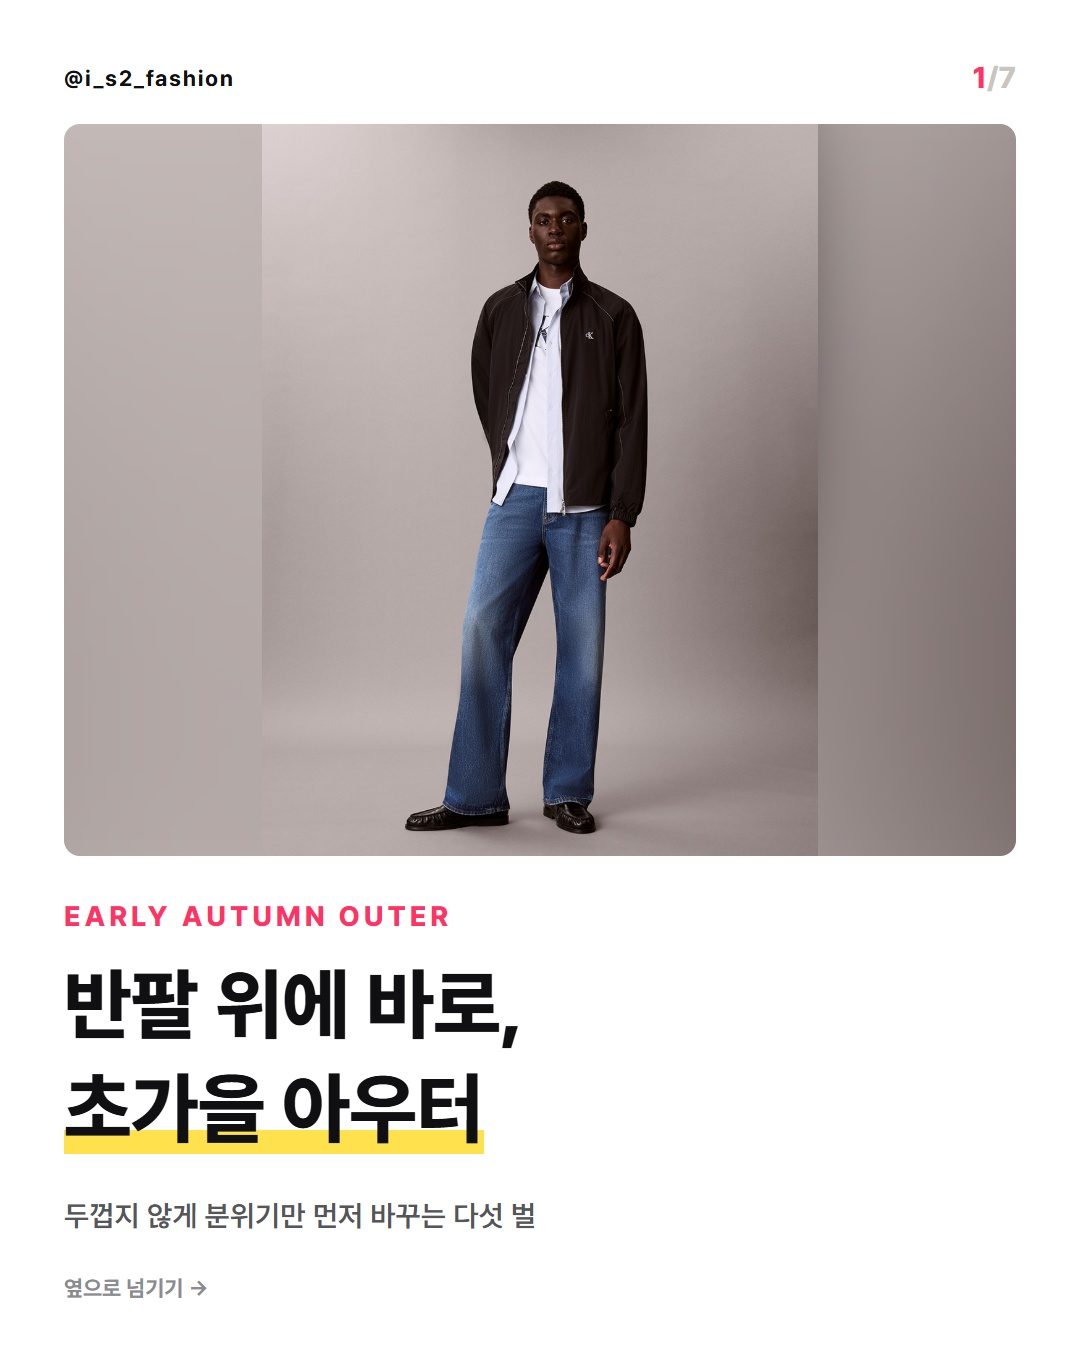
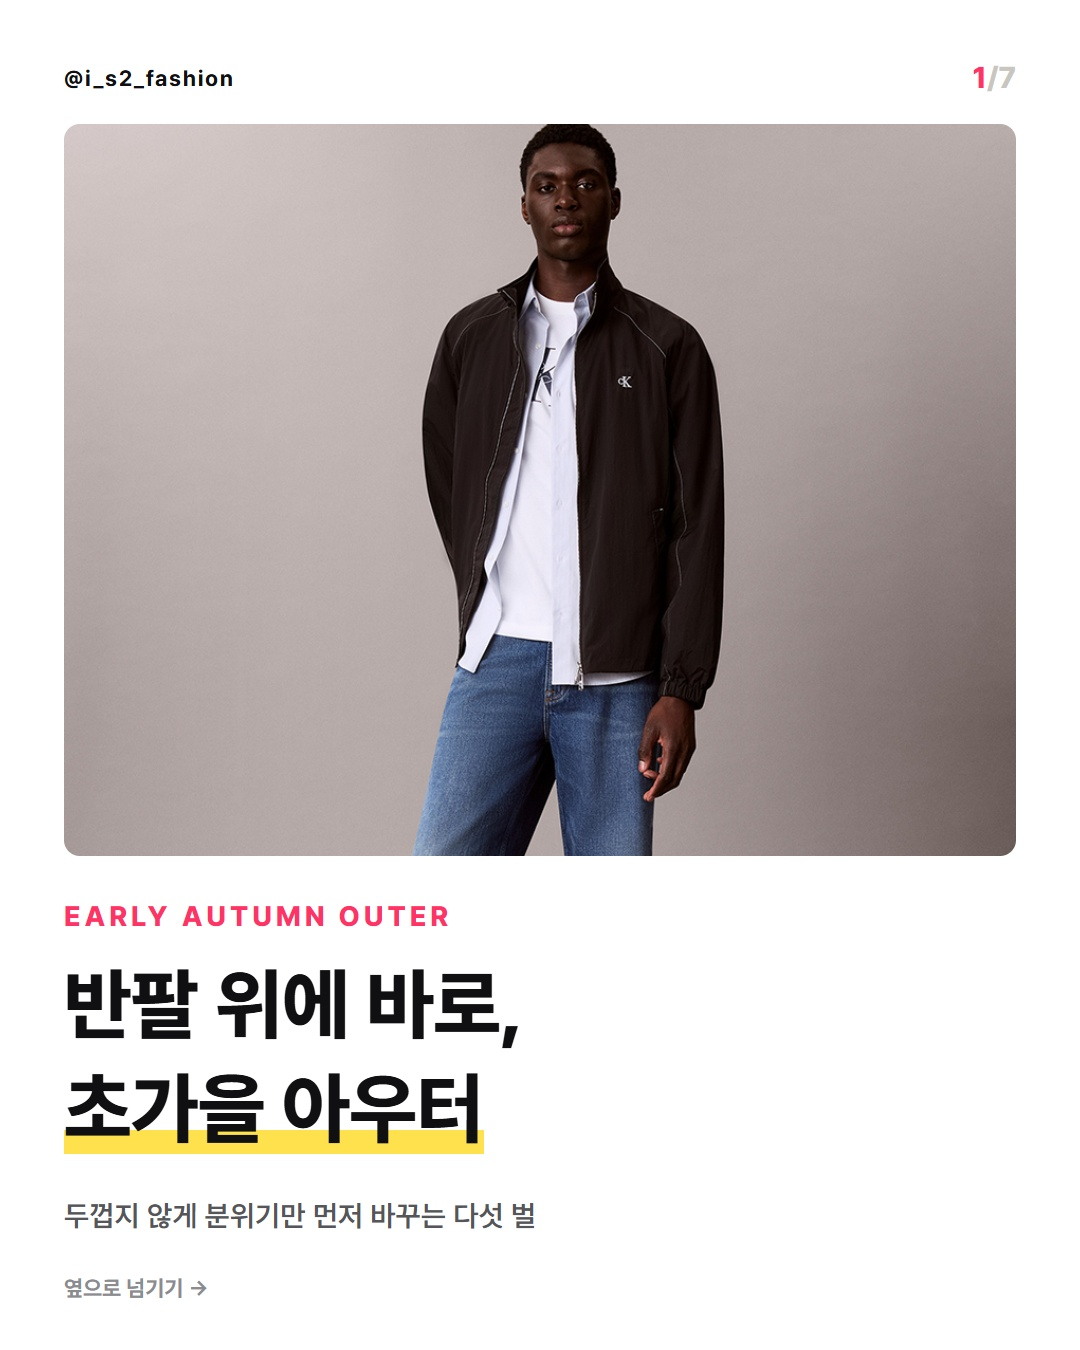
chore: auto-commit by Claude Code (2026-09-04 01:08:46)

Changed region(s): [[0.3667, 0.0933, 0.7944, 0.6533], [0.8556, 0.5911, 0.9472, 0.6533]]

diff --git a/card-drafts/early-autumn-outer/index.html b/card-drafts/early-autumn-outer/index.html
@@ -5,21 +5,22 @@
 /* 원본 비율을 유지하므로 남는 영역을 채우는 인위적인 사진 프레임은 사용하지 않는다. */
 .photo{background:transparent}
 .meta s{color:#b6b3ac;font-weight:500;margin-right:4px}
-.cover .photo{width:476px;height:366px;border-radius:8px;background:#e9e7e4}
-.cover .photo .bg{position:absolute;inset:-30px;background-size:cover;background-position:center;filter:blur(22px) saturate(.9);transform:scale(1.15);z-index:0}
-.cover .photo img{position:relative;z-index:1;width:100%;height:100%;object-fit:contain}
+.card.item .photo,.card.cover .photo{width:476px;border-radius:8px;background:#f0efec}
+.card.cover .photo{height:366px}
+.card.item .photo{height:310px}
+.card.item .photo img,.card.cover .photo img{width:100%;height:100%;object-fit:cover;object-position:var(--pos,50% 20%)}
 .cover .caption{margin-top:14px}
 </style></head><body><div class="head"><h1>초가을 아우터 카드뉴스 · 인스타 후킹형 · @i_s2_fashion</h1><p>표지 → 러플 카디건 · 네이비 재킷 · 하프 트렌치 · 윈드브레이커 · 트랙탑 → CTA (7장)<br>C안 고정 디자인 · 상품 정보: 무신사 2026-09-04 재확인</p></div><div class="toolbar"><button onclick="exportAll()">⬇ 전체 PNG 내보내기 (7장)</button></div><div class="board" id="board"></div>
 <script src="https://cdnjs.cloudflare.com/ajax/libs/html2canvas/1.4.1/html2canvas.min.js"></script><script>
 const cards=[
 {kind:'cover',img:'assets/cover-calvin-big.jpg',lab:'표지',kicker:'EARLY AUTUMN OUTER',title:'반팔 위에 바로,<br><em>초가을 아우터</em>',sub:'두껍지 않게 분위기만 먼저 바꾸는 다섯 벌'},
-{kind:'item',img:'assets/01-eightseconds-cardigan.jpg',lab:'에잇세컨즈',badge:'9%',prod:'에잇세컨즈 · <b>러플 긴소매 카디건</b>',title:'진주 단추는 빡세도<br><em>디자인이 이긴다</em>',meta:'무신사 <s>69,900원</s> 63,610원',proof:'후기 3개 · ⭐ 5.0',sp:'“디자인도 맘에 들고 느낌도 좋아요 단점이라면 단추가 진주라서 좀 빡셉니다. 그래도 그런 단점을 상쇄하는 디자인이에요.” —&nbsp;실제&nbsp;후기'},
-{kind:'item',img:'assets/02-polo.jpg',lab:'폴로 랄프 로렌',badge:'5%',prod:'폴로 랄프 로렌 · <b>빅 재킷 네이비</b>',title:'해링턴보다<br><em>빅 재킷</em>',meta:'무신사 <s>499,000원</s> 474,050원',proof:'후기 6개 · ⭐ 4.8',sp:'“비싸서 매번 쳐다만 보던 폴로 재킷 구매했습니다. 다른 폴로의 워크 재킷류가 많았지만 해링턴 재킷보다는 빅재킷이 제일 이뻐보여서 이걸로 장만했습니다.” —&nbsp;실제&nbsp;후기'},
-{kind:'item',img:'assets/03-mixxo.jpg',lab:'미쏘',badge:'24%',prod:'미쏘 · <b>하프 트렌치코트</b>',title:'소매를 접으면<br><em>디테일이 보여</em>',meta:'무신사 <s>129,000원</s> 98,040원',proof:'후기 15개 · ⭐ 5.0',sp:'“봄가을에 너무너무 잘 입을거 같아요! 소매 안감 디테일도 너무 귀엽구 .. 색도 맘에들어요🫰🏻🤍 사이즈 s인데도 겁나 커요,, 매장에서 입어보고 온라인주문 추천합니댜 ㅎㅎ” —&nbsp;실제&nbsp;후기'},
-{kind:'item',img:'assets/04-calvin.jpg',lab:'캘빈클라인 진',badge:'40%',prod:'캘빈클라인 진 · <b>콘트라스트 스티치 윈드브레이커</b>',title:'가볍게 걸치고<br><em>뒤는 확실하게</em>',meta:'무신사 <s>219,000원</s> 131,400원',proof:'후기 98개 · ⭐ 4.9',sp:'“뒤에 백로고가 너무 예뻐요. 간절기에 들고 다니고 걸치기 좋은 두께감입니다. 가벼워요” —&nbsp;실제&nbsp;후기'},
-{kind:'item',img:'assets/05-adidas.jpg',lab:'아디다스',badge:'17%',prod:'아디다스 · <b>클래식 트랙탑</b>',title:'색감 예쁜데<br><em>밑단 시보리 짱짱</em>',meta:'무신사 <s>109,000원</s> 90,470원',proof:'후기 9개 · ⭐ 5.0',sp:'“디자인이랑 색감 진짜 이뻐요! 그리고 밑단 시보리가 엄청 짱짱해서 골반에 딱 걸쳐요 이 부분 고려해서 사이즈 선택해야 할 것 같아요” —&nbsp;실제&nbsp;후기'},
+{kind:'item',img:'assets/01-eightseconds-cardigan-crop.jpg',pos:'50% 6%',lab:'에잇세컨즈',badge:'9%',prod:'에잇세컨즈 · <b>러플 긴소매 카디건</b>',title:'진주 단추는 빡세도<br><em>디자인이 이긴다</em>',meta:'무신사 <s>69,900원</s> 63,610원',proof:'후기 3개 · ⭐ 5.0',sp:'“디자인도 맘에 들고 느낌도 좋아요 단점이라면 단추가 진주라서 좀 빡셉니다. 그래도 그런 단점을 상쇄하는 디자인이에요.” —&nbsp;실제&nbsp;후기'},
+{kind:'item',img:'assets/02-polo-big.jpg',lab:'폴로 랄프 로렌',badge:'5%',prod:'폴로 랄프 로렌 · <b>빅 재킷 네이비</b>',title:'해링턴보다<br><em>빅 재킷</em>',meta:'무신사 <s>499,000원</s> 474,050원',proof:'후기 6개 · ⭐ 4.8',sp:'“비싸서 매번 쳐다만 보던 폴로 재킷 구매했습니다. 다른 폴로의 워크 재킷류가 많았지만 해링턴 재킷보다는 빅재킷이 제일 이뻐보여서 이걸로 장만했습니다.” —&nbsp;실제&nbsp;후기'},
+{kind:'item',img:'assets/03-mixxo-big.jpg',lab:'미쏘',badge:'24%',prod:'미쏘 · <b>하프 트렌치코트</b>',title:'소매를 접으면<br><em>디테일이 보여</em>',meta:'무신사 <s>129,000원</s> 98,040원',proof:'후기 15개 · ⭐ 5.0',sp:'“봄가을에 너무너무 잘 입을거 같아요! 소매 안감 디테일도 너무 귀엽구 .. 색도 맘에들어요🫰🏻🤍 사이즈 s인데도 겁나 커요,, 매장에서 입어보고 온라인주문 추천합니댜 ㅎㅎ” —&nbsp;실제&nbsp;후기'},
+{kind:'item',img:'assets/04-calvin-big.jpg',pos:'50% 42%',lab:'캘빈클라인 진',badge:'40%',prod:'캘빈클라인 진 · <b>콘트라스트 스티치 윈드브레이커</b>',title:'가볍게 걸치고<br><em>뒤는 확실하게</em>',meta:'무신사 <s>219,000원</s> 131,400원',proof:'후기 98개 · ⭐ 4.9',sp:'“뒤에 백로고가 너무 예뻐요. 간절기에 들고 다니고 걸치기 좋은 두께감입니다. 가벼워요” —&nbsp;실제&nbsp;후기'},
+{kind:'item',img:'assets/05-adidas-big.jpg',lab:'아디다스',badge:'17%',prod:'아디다스 · <b>클래식 트랙탑</b>',title:'색감 예쁜데<br><em>밑단 시보리 짱짱</em>',meta:'무신사 <s>109,000원</s> 90,470원',proof:'후기 9개 · ⭐ 5.0',sp:'“디자인이랑 색감 진짜 이뻐요! 그리고 밑단 시보리가 엄청 짱짱해서 골반에 딱 걸쳐요 이 부분 고려해서 사이즈 선택해야 할 것 같아요” —&nbsp;실제&nbsp;후기'},
 {kind:'cta',img:'../../CARD/zzal/20260830.jpg',lab:'CTA',title:'다 사고 싶지만<br><em>통장은 하나</em>',sub:'이번 가을 가장 먼저 살 한 벌부터<br>골라서 저장해두세요'}];
-function html(c,i){let photo=c.kind==='cover'?`<div class="photo"><span class="bg" style="background-image:url('${c.img}')"></span><img src="${c.img}" alt=""></div>`:`<div class="photo"><img src="${c.img}" alt="" onload="sizePhoto(this)">${c.badge?`<span class="badge">${c.badge}</span>`:''}</div>`,body=c.kind==='cover'?`<div class="caption"><div class="kicker">${c.kicker}</div><h2 class="title">${c.title}</h2><p class="sub">${c.sub}</p></div>`:c.kind==='cta'?`<div class="caption"><h2 class="title">${c.title}</h2><p class="sub">${c.sub}</p></div>`:`<div class="caption"><div class="prodline">${c.prod}</div><h2 class="title">${c.title}</h2><div class="metarow"><span class="meta">${c.meta}</span><span class="proof">${c.proof}</span></div><div class="credit">이미지 출처 : 무신사</div><div class="selling">${c.sp}</div></div>`;return `<div class="card ${c.kind}" id="card${i}"><div class="toprow"><span class="handle">@i_s2_fashion</span><span class="num">${i+1}<i>/7</i></span></div>${photo}${body}<div class="foot">${i<6?'옆으로 넘기기 →':'&nbsp;'}</div></div>`}
+function html(c,i){let photo=c.kind==='cta'?`<div class="photo"><img src="${c.img}" alt="" onload="sizePhoto(this)"></div>`:`<div class="photo"><img src="${c.img}" alt="" style="--pos:${c.pos||'50% 20%'}">${c.badge?`<span class="badge">${c.badge}</span>`:''}</div>`,body=c.kind==='cover'?`<div class="caption"><div class="kicker">${c.kicker}</div><h2 class="title">${c.title}</h2><p class="sub">${c.sub}</p></div>`:c.kind==='cta'?`<div class="caption"><h2 class="title">${c.title}</h2><p class="sub">${c.sub}</p></div>`:`<div class="caption"><div class="prodline">${c.prod}</div><h2 class="title">${c.title}</h2><div class="metarow"><span class="meta">${c.meta}</span><span class="proof">${c.proof}</span></div><div class="credit">이미지 출처 : 무신사</div><div class="selling">${c.sp}</div></div>`;return `<div class="card ${c.kind}" id="card${i}"><div class="toprow"><span class="handle">@i_s2_fashion</span><span class="num">${i+1}<i>/7</i></span></div>${photo}${body}<div class="foot">${i<6?'옆으로 넘기기 →':'&nbsp;'}</div></div>`}
 function sizePhoto(img){const wrap=img.parentElement,isCta=wrap.closest('.cta'),maxW=isCta?400:330,maxH=isCta?380:330,ratio=img.naturalWidth/img.naturalHeight;let w=maxW,h=Math.round(w/ratio);if(h>maxH){h=maxH;w=Math.round(h*ratio)}wrap.style.width=w+'px';wrap.style.height=h+'px'}
 cards.forEach((c,i)=>{let col=document.createElement('div');col.className='col';col.innerHTML=`<div class="slot">${html(c,i)}</div><div class="cap"><span>0${i+1} · ${c.lab}</span><button onclick="save(${i})">PNG 저장</button></div>`;board.append(col)});function fit(){document.querySelectorAll('.col').forEach(col=>{let card=col.querySelector('.card'),slot=col.querySelector('.slot'),s=Math.min(1,col.clientWidth/540);card.style.transform=`scale(${s})`;slot.style.height=675*s+'px'})}fit();addEventListener('resize',fit);
 async function save(i){if(!window.html2canvas)return;let el=document.querySelector('#card'+i),old=el.style.transform;el.style.transform='none';let canvas=await html2canvas(el,{scale:2,useCORS:true,backgroundColor:'#fff'});el.style.transform=old;let a=document.createElement('a');a.download=`${i+1}.jpg`;a.href=canvas.toDataURL('image/jpeg',.95);a.click()}async function exportAll(){for(let i=0;i<7;i++){await save(i);await new Promise(r=>setTimeout(r,250))}}

diff --git a/card-drafts/early-autumn-outer/result.md b/card-drafts/early-autumn-outer/result.md
@@ -26,8 +26,10 @@
    교체된 상품(카디건)도 반영.
 6. 렌더 결과 검토 3회(맞춤법·사실·정책) 통과. 5번 카드 "실제 후기" 줄바꿈 고아 현상은 `&nbsp;`로 해결.
 
-7. **디자인 피드백 반영 (09-05)** — ① 표지 사진을 카드 폭을 채우는 풀샷 프레임(476×366)으로 확대. 원본은 자르지 않고
-   같은 사진을 블러로 늘려 배경을 채웠다(줌 크롭 금지 규칙 준수). 표지 원본은 무신사 900×1184 고해상도 컷으로 교체.
+7. **디자인 피드백 반영 (09-05)** — ① 사용자 피드백 "마지막(CTA) 제외 모든 이미지 풀샷": 표지(476×366)와 상품 카드 5장(476×310)의
+   사진을 카드 폭을 꽉 채우는 프레임으로 통일하고 `object-fit: cover` 로 채웠다. 첫 시안의 블러 배경 확장은 "이질감" 피드백으로 폐기.
+   사진이 커진 만큼 5종 전부 무신사 원본(1500×1800 / 900×1184)으로 교체해 화질 확보. 2번 카디건은 무신사 원본 컷 양옆에 흰 여백이 있어
+   여백만 잘라낸 뒤(정면 착용컷 유지) 사용했다.
    ② 글자 간격 — 헤드라인 자간 -0.5px→0, 행간 1.32→1.42(표지 1.26→1.34), 셀링포인트·서브 행간 1.6→1.75.
 
 ## 2. 게시 전 검증 (2026-09-04)
